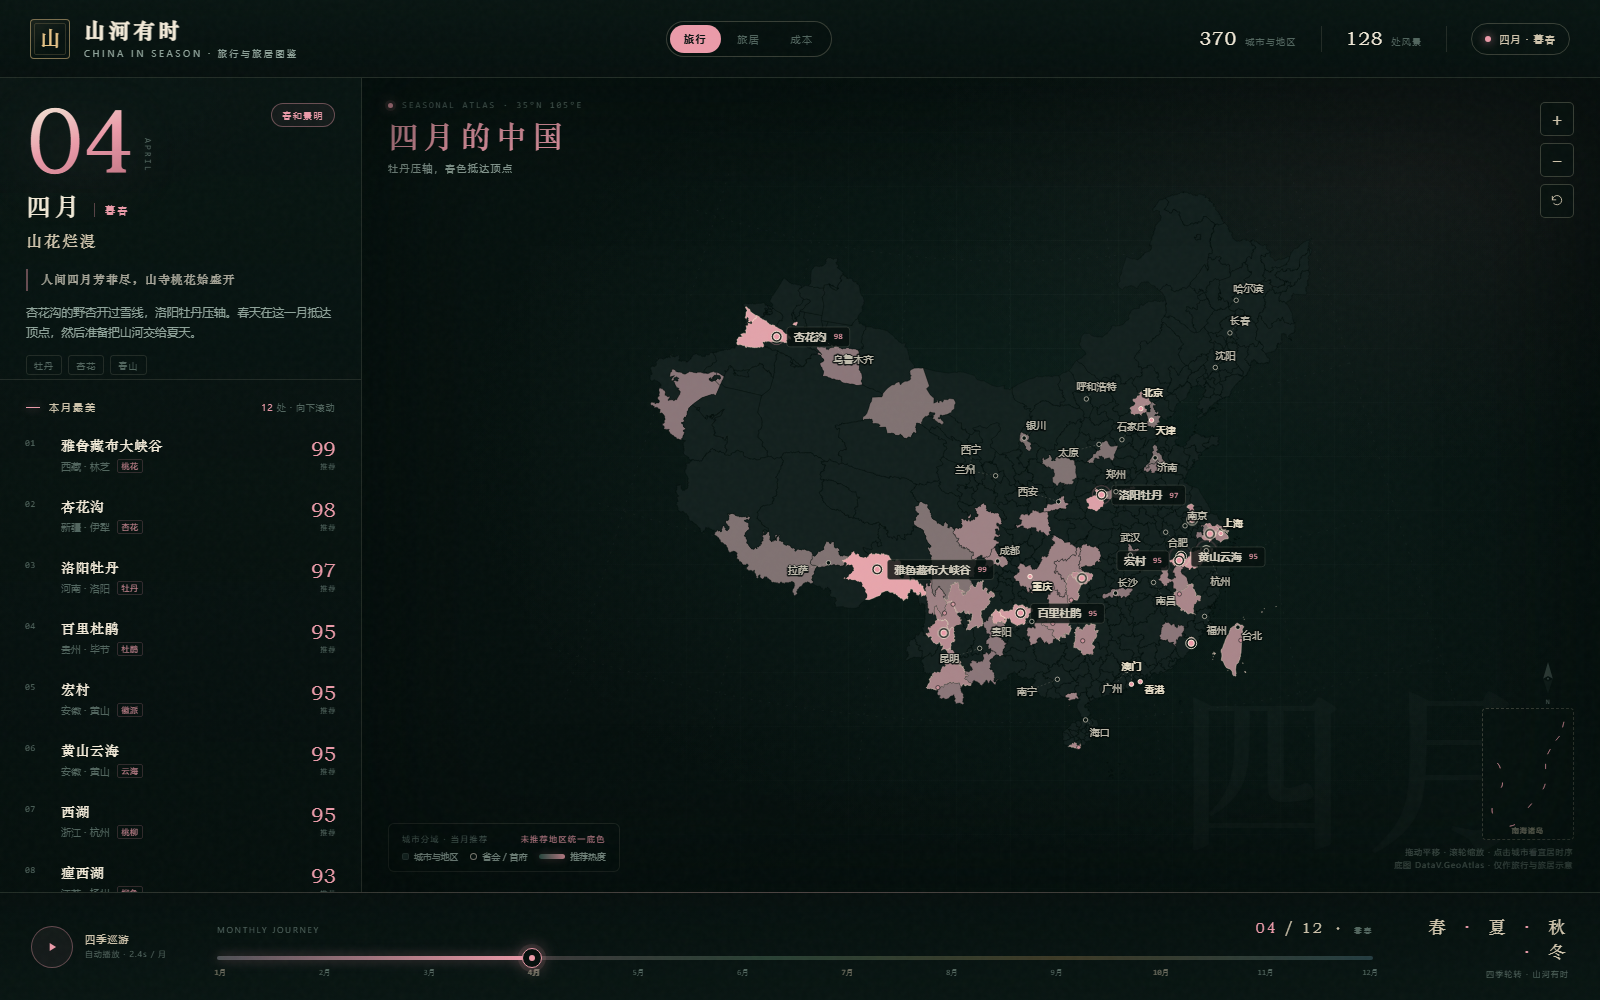
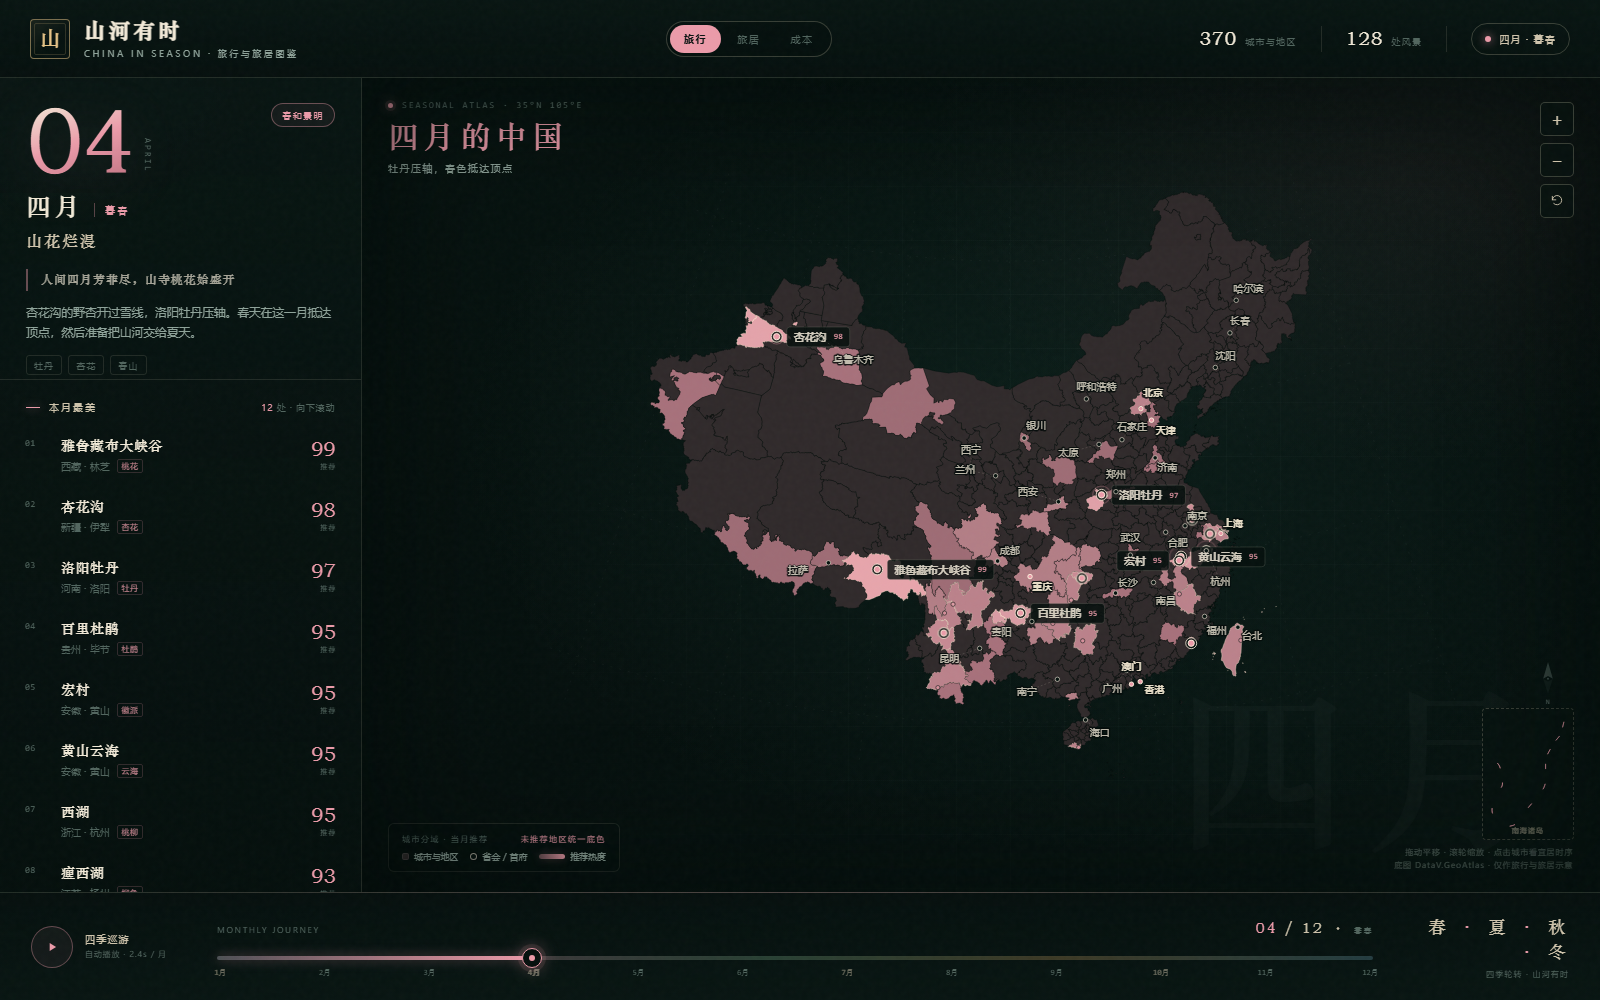
Tint unrecommended map areas with seasonal accent

Changed region(s): [[0.4062, 0.186, 0.8438, 0.744]]

diff --git a/index.html b/index.html
@@ -1353,10 +1353,10 @@ button:focus-visible, input:focus-visible, [tabindex]:focus-visible {
   font-weight: 600;
 }
 body.mode-travel .legend-heat {
-  background: linear-gradient(90deg, #31584e 0%, var(--accent) 100%);
+  background: linear-gradient(90deg, var(--travel-low) 0%, var(--accent) 100%);
   box-shadow: 0 0 8px rgba(var(--accent-rgb), .28);
 }
-body.mode-travel .city-swatch { background: #1a2b28; }
+body.mode-travel .city-swatch { background: var(--travel-idle); }
 body.mode-live .legend-heat {
   background: linear-gradient(90deg, #294a57 0%, #4d8774 38%, #b7b170 68%, #f0d39a 100%);
   box-shadow: 0 0 8px rgba(222, 195, 125, .24);
@@ -2651,13 +2651,18 @@ body.mode-cost .legend-heat {
   }
 
   /* ---------------- city colors ---------------- */
-  const TRAVEL_IDLE = [20, 33, 31];
-  const TRAVEL_LOW = [49, 88, 78];
+  const TRAVEL_IDLE_BASE = [9, 18, 17];
+
+  function travelPalette() {
+    const idle = mix(TRAVEL_IDLE_BASE, accentRgb, .18);
+    return { idle, low: mix(idle, accentRgb, .30) };
+  }
 
   function applyMonthColors() {
     const m = state.month;
     const live = state.mode === 'live';
     const cost = state.mode === 'cost';
+    const travel = travelPalette();
     CITIES.forEach(c => {
       if (!c.el) return;
       let rgb;
@@ -2674,12 +2679,12 @@ body.mode-cost .legend-heat {
         const score = Number(c.score[m]) || 0;
         if (score >= 70) {
           const t = Math.pow(clamp((score - 70) / 29, 0, 1), .92);
-          rgb = mix(TRAVEL_LOW, accentRgb, t);
+          rgb = mix(travel.low, accentRgb, t);
           if (score >= 94) rgb = lighten(rgb, .16);
           else if (score >= 86) rgb = lighten(rgb, .06);
           hot = score >= 88;
         } else {
-          rgb = TRAVEL_IDLE;
+          rgb = travel.idle;
         }
       }
       c.el.style.fill = rgba(rgb, .97);
@@ -3304,6 +3309,9 @@ body.mode-cost .legend-heat {
     root.setProperty('--accent', meta.accent);
     root.setProperty('--accent-rgb', accentRgb.join(','));
     root.setProperty('--accent-2', meta.accent2);
+    const tp = travelPalette();
+    root.setProperty('--travel-idle', rgba(tp.idle, 1));
+    root.setProperty('--travel-low', rgba(tp.low, 1));
 
     if (cost) {
       els.monthNum.textContent = '¥';

diff --git a/中国四季旅行地图.html b/中国四季旅行地图.html
@@ -1353,10 +1353,10 @@ button:focus-visible, input:focus-visible, [tabindex]:focus-visible {
   font-weight: 600;
 }
 body.mode-travel .legend-heat {
-  background: linear-gradient(90deg, #31584e 0%, var(--accent) 100%);
+  background: linear-gradient(90deg, var(--travel-low) 0%, var(--accent) 100%);
   box-shadow: 0 0 8px rgba(var(--accent-rgb), .28);
 }
-body.mode-travel .city-swatch { background: #1a2b28; }
+body.mode-travel .city-swatch { background: var(--travel-idle); }
 body.mode-live .legend-heat {
   background: linear-gradient(90deg, #294a57 0%, #4d8774 38%, #b7b170 68%, #f0d39a 100%);
   box-shadow: 0 0 8px rgba(222, 195, 125, .24);
@@ -2651,13 +2651,18 @@ body.mode-cost .legend-heat {
   }
 
   /* ---------------- city colors ---------------- */
-  const TRAVEL_IDLE = [20, 33, 31];
-  const TRAVEL_LOW = [49, 88, 78];
+  const TRAVEL_IDLE_BASE = [9, 18, 17];
+
+  function travelPalette() {
+    const idle = mix(TRAVEL_IDLE_BASE, accentRgb, .18);
+    return { idle, low: mix(idle, accentRgb, .30) };
+  }
 
   function applyMonthColors() {
     const m = state.month;
     const live = state.mode === 'live';
     const cost = state.mode === 'cost';
+    const travel = travelPalette();
     CITIES.forEach(c => {
       if (!c.el) return;
       let rgb;
@@ -2674,12 +2679,12 @@ body.mode-cost .legend-heat {
         const score = Number(c.score[m]) || 0;
         if (score >= 70) {
           const t = Math.pow(clamp((score - 70) / 29, 0, 1), .92);
-          rgb = mix(TRAVEL_LOW, accentRgb, t);
+          rgb = mix(travel.low, accentRgb, t);
           if (score >= 94) rgb = lighten(rgb, .16);
           else if (score >= 86) rgb = lighten(rgb, .06);
           hot = score >= 88;
         } else {
-          rgb = TRAVEL_IDLE;
+          rgb = travel.idle;
         }
       }
       c.el.style.fill = rgba(rgb, .97);
@@ -3304,6 +3309,9 @@ body.mode-cost .legend-heat {
     root.setProperty('--accent', meta.accent);
     root.setProperty('--accent-rgb', accentRgb.join(','));
     root.setProperty('--accent-2', meta.accent2);
+    const tp = travelPalette();
+    root.setProperty('--travel-idle', rgba(tp.idle, 1));
+    root.setProperty('--travel-low', rgba(tp.low, 1));
 
     if (cost) {
       els.monthNum.textContent = '¥';

diff --git a/china-travel-map/src/app.js b/china-travel-map/src/app.js
@@ -555,13 +555,18 @@
   }
 
   /* ---------------- city colors ---------------- */
-  const TRAVEL_IDLE = [20, 33, 31];
-  const TRAVEL_LOW = [49, 88, 78];
+  const TRAVEL_IDLE_BASE = [9, 18, 17];
+
+  function travelPalette() {
+    const idle = mix(TRAVEL_IDLE_BASE, accentRgb, .18);
+    return { idle, low: mix(idle, accentRgb, .30) };
+  }
 
   function applyMonthColors() {
     const m = state.month;
     const live = state.mode === 'live';
     const cost = state.mode === 'cost';
+    const travel = travelPalette();
     CITIES.forEach(c => {
       if (!c.el) return;
       let rgb;
@@ -578,12 +583,12 @@
         const score = Number(c.score[m]) || 0;
         if (score >= 70) {
           const t = Math.pow(clamp((score - 70) / 29, 0, 1), .92);
-          rgb = mix(TRAVEL_LOW, accentRgb, t);
+          rgb = mix(travel.low, accentRgb, t);
           if (score >= 94) rgb = lighten(rgb, .16);
           else if (score >= 86) rgb = lighten(rgb, .06);
           hot = score >= 88;
         } else {
-          rgb = TRAVEL_IDLE;
+          rgb = travel.idle;
         }
       }
       c.el.style.fill = rgba(rgb, .97);
@@ -1208,6 +1213,9 @@
     root.setProperty('--accent', meta.accent);
     root.setProperty('--accent-rgb', accentRgb.join(','));
     root.setProperty('--accent-2', meta.accent2);
+    const tp = travelPalette();
+    root.setProperty('--travel-idle', rgba(tp.idle, 1));
+    root.setProperty('--travel-low', rgba(tp.low, 1));
 
     if (cost) {
       els.monthNum.textContent = '¥';

diff --git a/china-travel-map/src/style.css b/china-travel-map/src/style.css
@@ -1346,10 +1346,10 @@ button:focus-visible, input:focus-visible, [tabindex]:focus-visible {
   font-weight: 600;
 }
 body.mode-travel .legend-heat {
-  background: linear-gradient(90deg, #31584e 0%, var(--accent) 100%);
+  background: linear-gradient(90deg, var(--travel-low) 0%, var(--accent) 100%);
   box-shadow: 0 0 8px rgba(var(--accent-rgb), .28);
 }
-body.mode-travel .city-swatch { background: #1a2b28; }
+body.mode-travel .city-swatch { background: var(--travel-idle); }
 body.mode-live .legend-heat {
   background: linear-gradient(90deg, #294a57 0%, #4d8774 38%, #b7b170 68%, #f0d39a 100%);
   box-shadow: 0 0 8px rgba(222, 195, 125, .24);

diff --git a/README.md b/README.md
@@ -11,7 +11,7 @@
 双击 `中国四季旅行地图.html` 即可。网页已内嵌全部地图、城市边界、气候、消费与景点数据，不需要联网，也没有外部依赖。
 
 - 顶部「旅行 / 旅居 / 成本」切换地图模式。
-- 旅行模式下，未推荐地区统一为深色底，只有当月推荐地区按推荐度由冷到暖着色。
+- 旅行模式下，未推荐地区统一为当季色调的暗色底，只有当月推荐地区按推荐度由冷到暖着色。
 - 旅行、旅居模式下用底部滑杆切换月份；成本模式为年度指数，不随月份变化。
 - 点击任意城市查看该市气候与消费详情。
 
@@ -22,6 +22,7 @@
 ├─ 中国四季旅行地图.html   # 最终单文件网页
 ├─ preview.png              # 旅居模式预览
 ├─ preview-travel.png       # 旅行模式预览（仅推荐地区着色）
+├─ preview-seasons.png      # 四季推荐底色对比
 ├─ preview-city.png         # 城市气候详情预览
 ├─ preview-cost.png         # 生活成本模式预览
 ├─ preview-cost-city.png    # 城市消费详情预览
